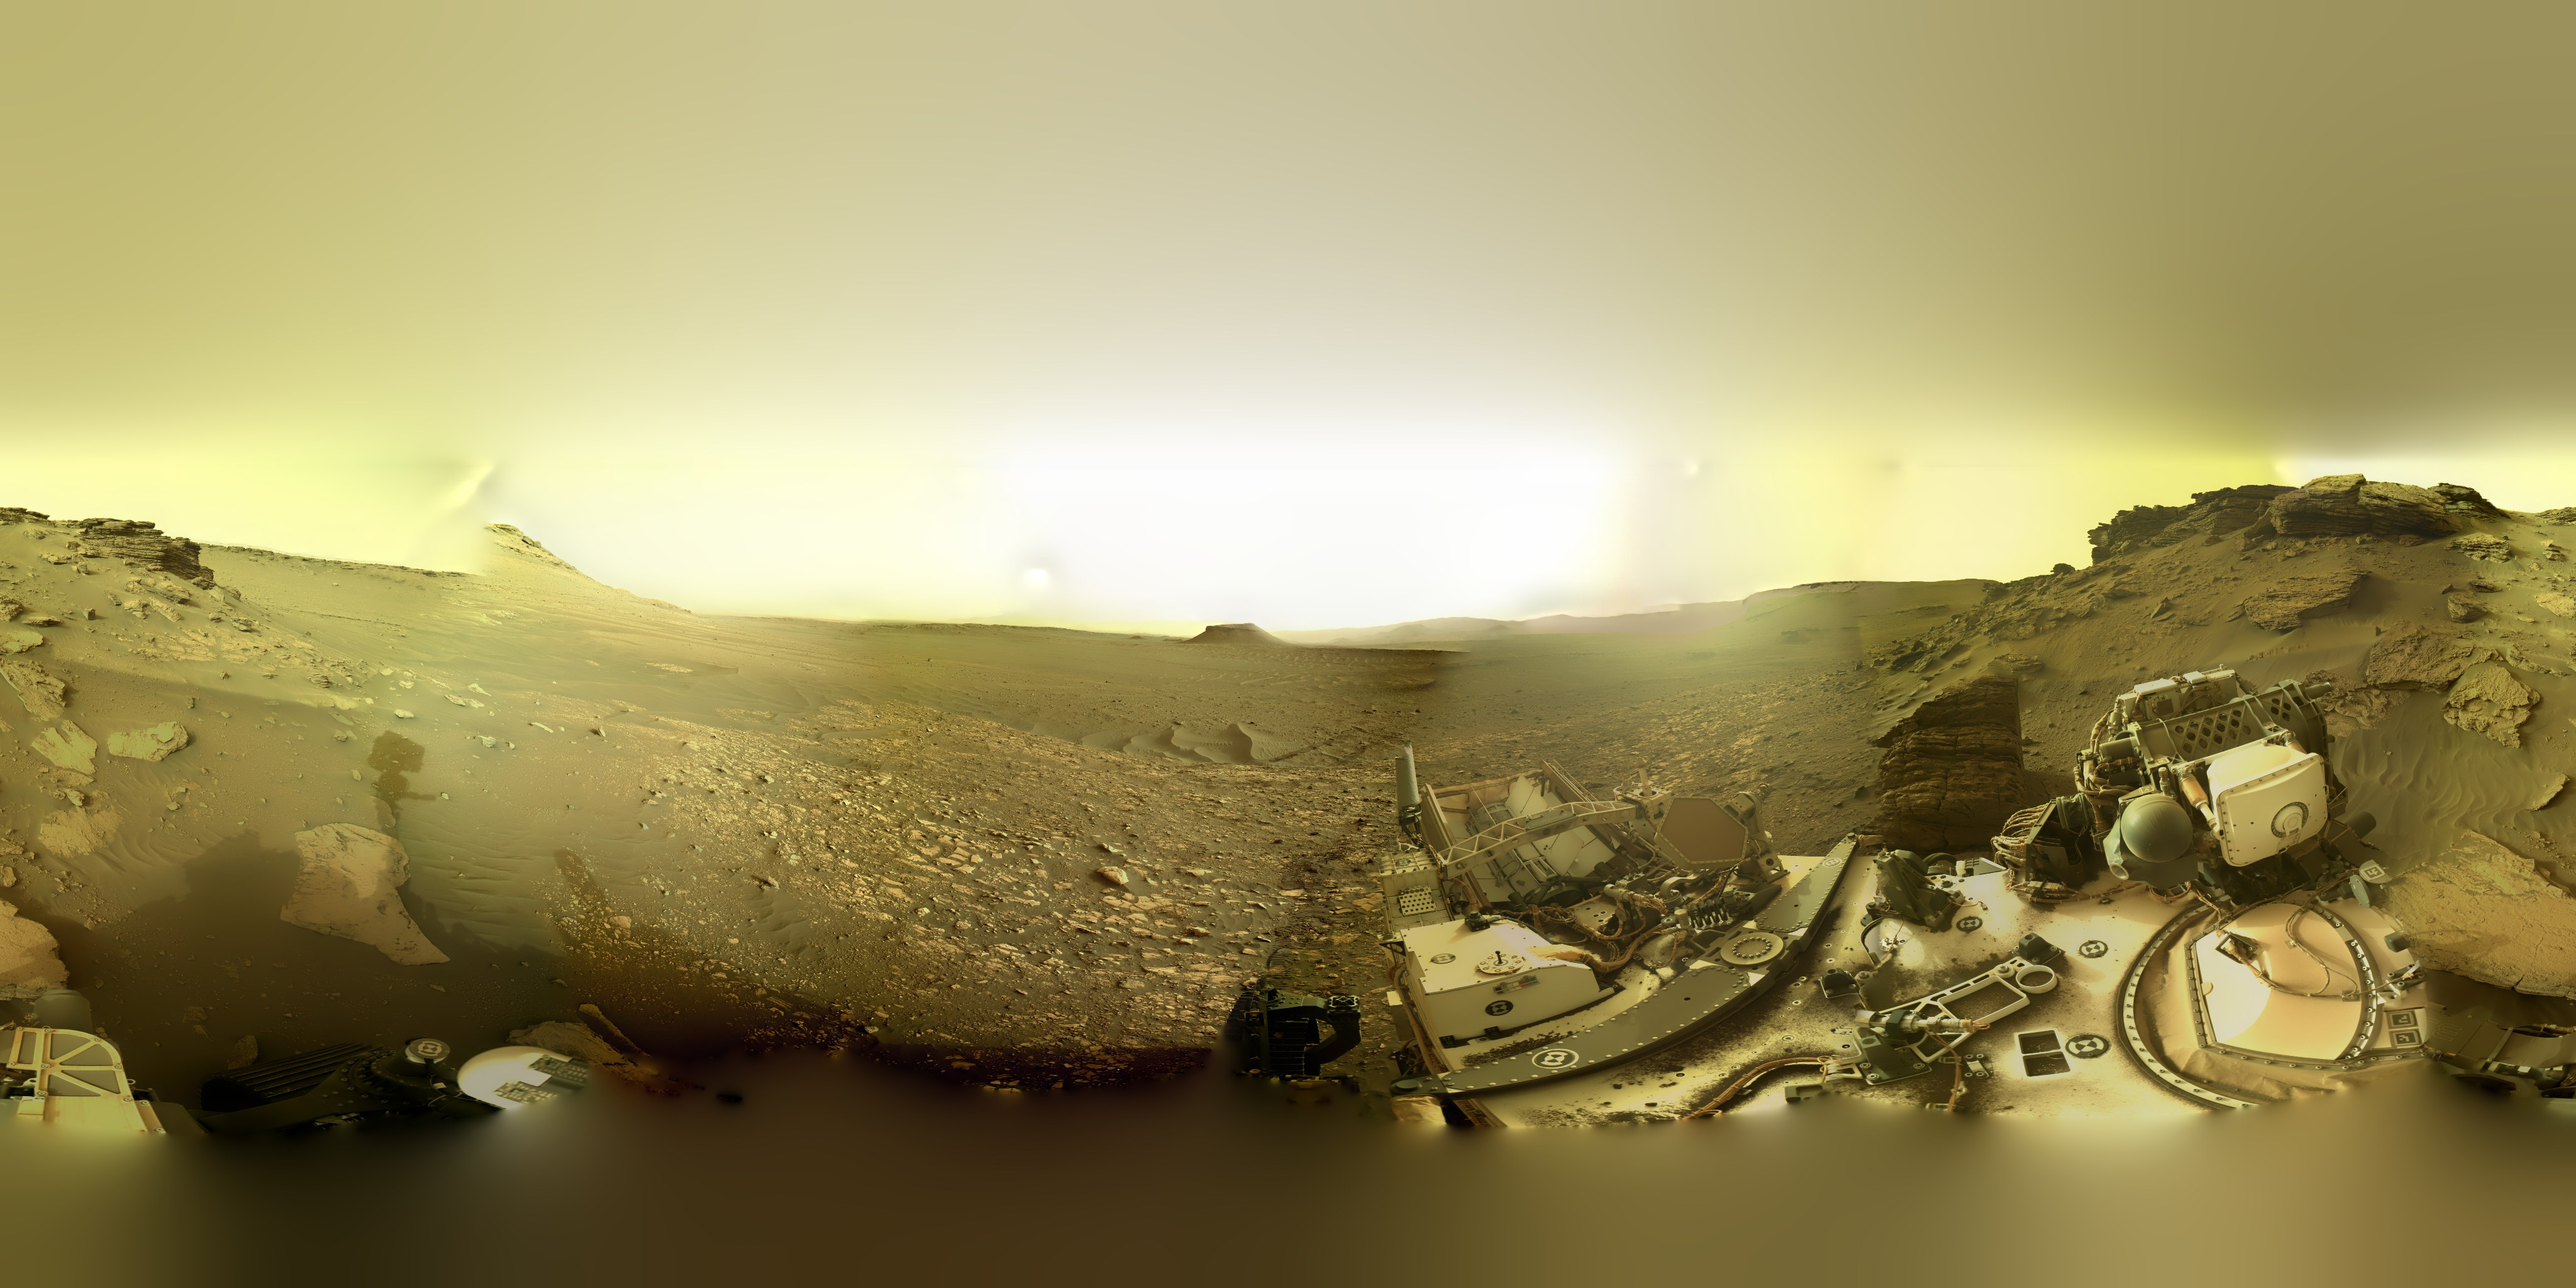
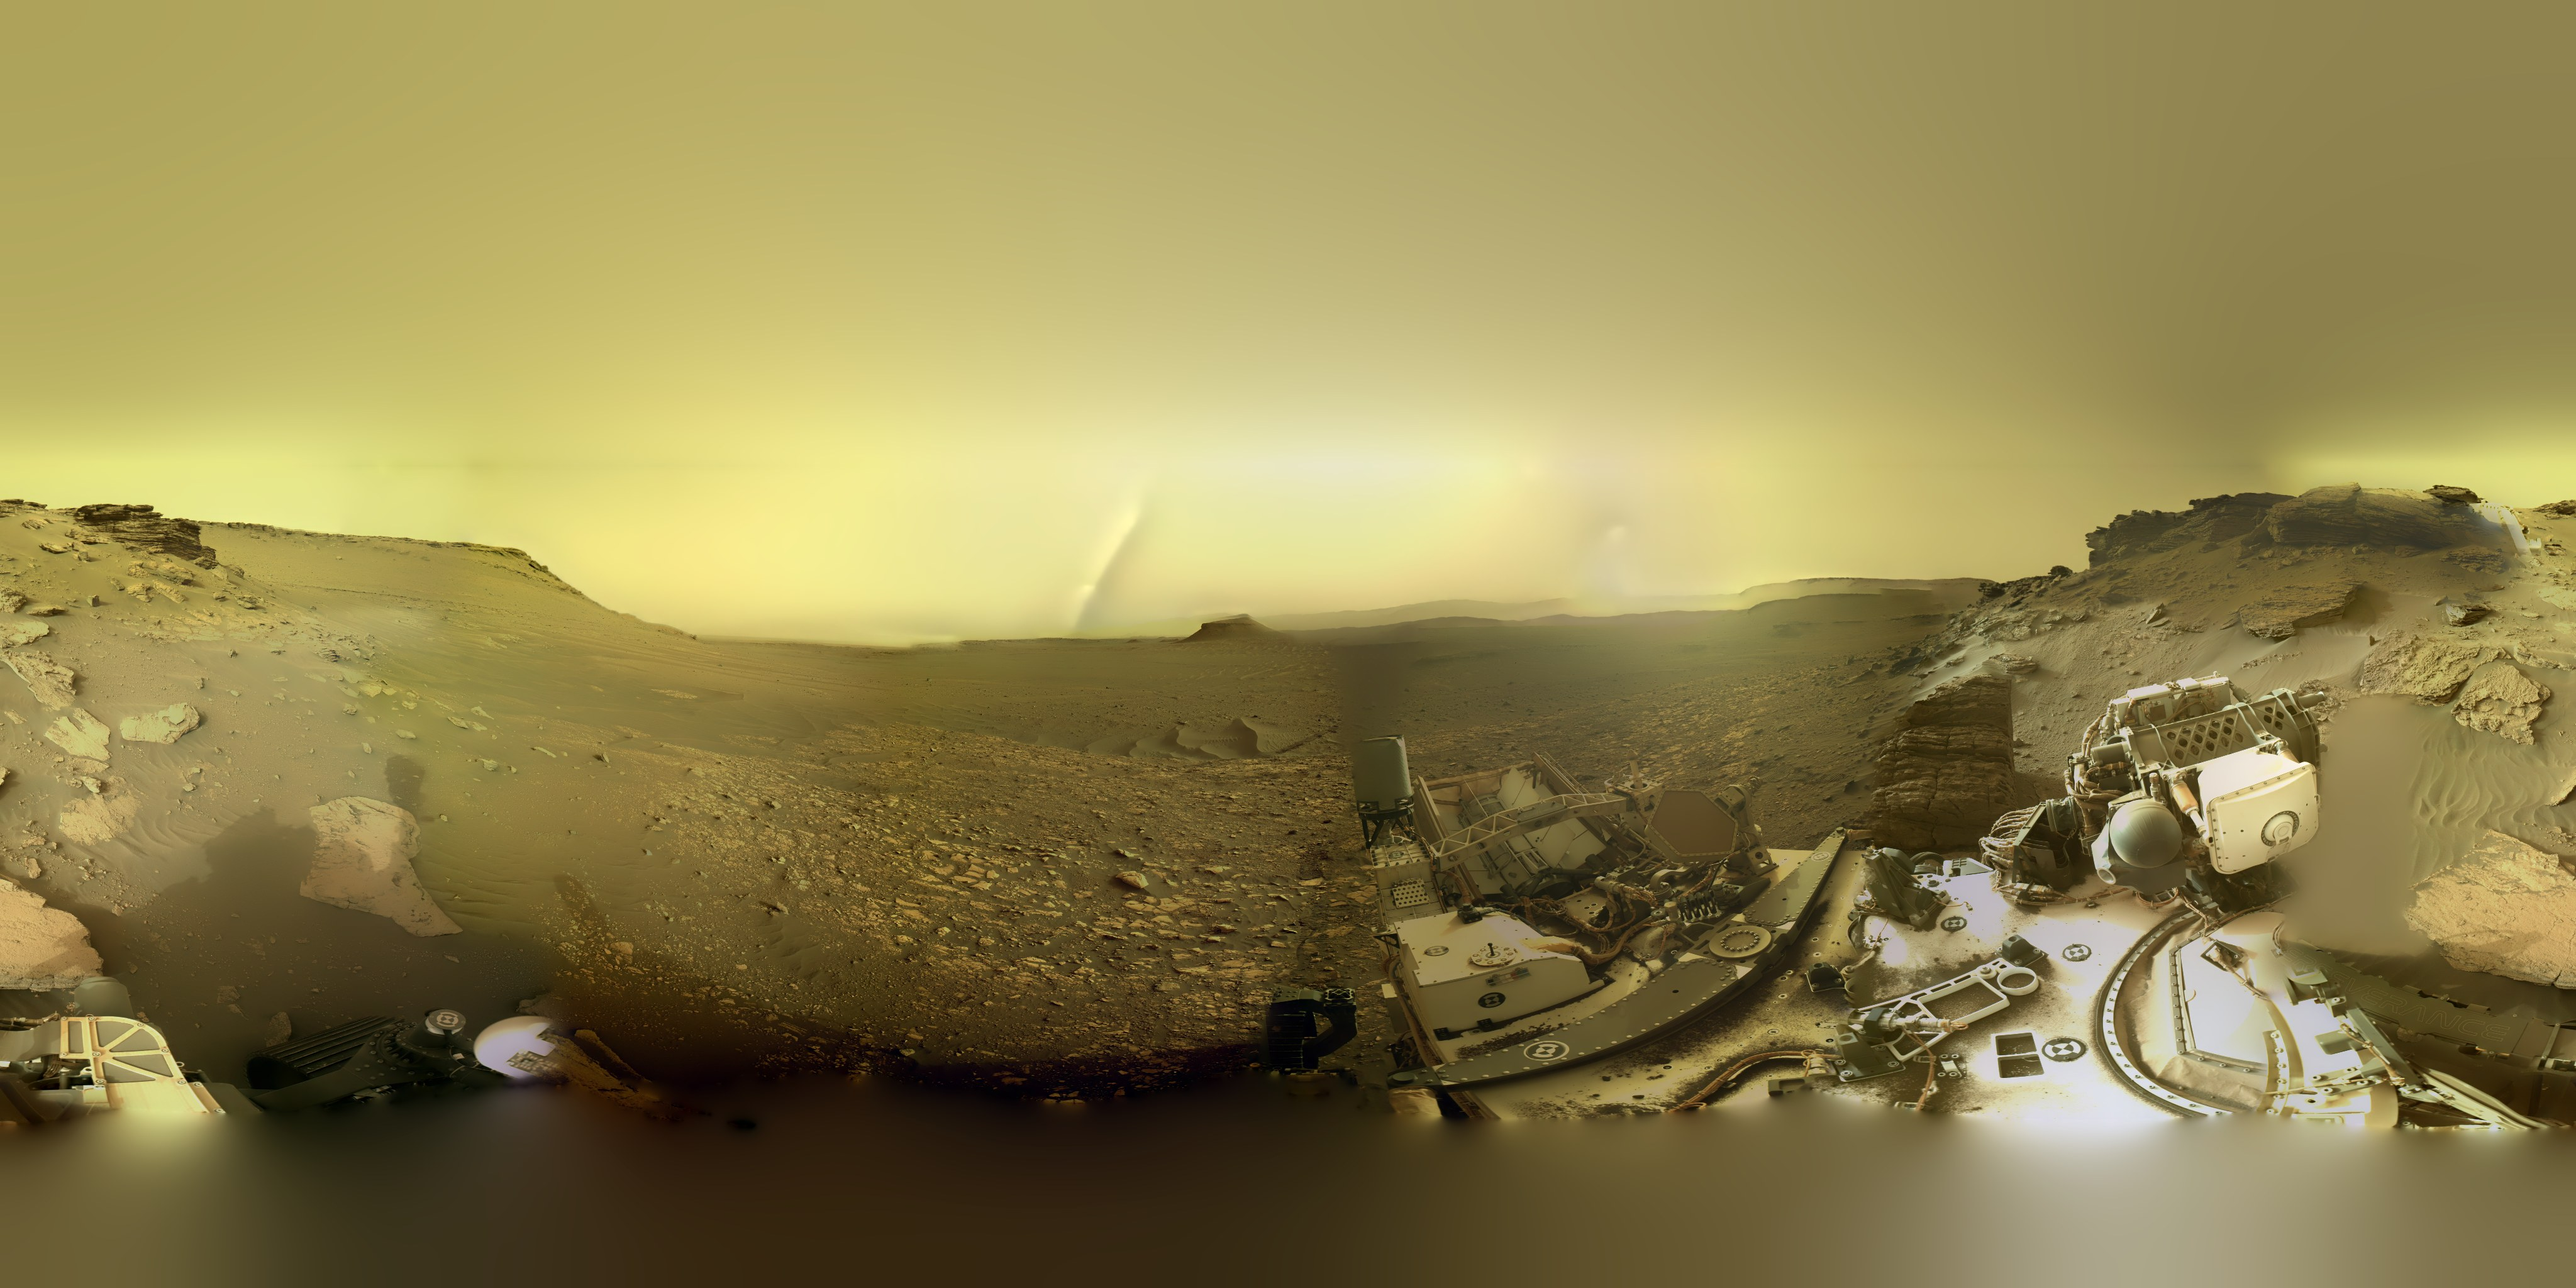
feat: laptop CDN for panoramas; rebuild demo stops with streaming stitcher
- prestitched-client: try VITE_PANO_CDN (laptop tunnel) first for index
  and JPEG files, fall back to Vercel-committed demo stops when offline
- scripts/start-pano-cdn.sh: one-command server + Cloudflare Tunnel
- .env.example: documents VITE_PANO_CDN and VITE_CESIUM_TOKEN
- Rebuild Hazeltop (26_1004) with streaming stitcher: 110 frames vs 47,
  sub-0.2° alignment; add per-stop provenance JSON files
- prestitched.ts: slim PrestitchedPano type (frameCount, link, provenance)
- streetview-viewer: show frame count and link credit from pre-stitched data

diff --git a/web/src/map/prestitched-client.ts b/web/src/map/prestitched-client.ts
@@ -3,6 +3,10 @@ import { type PrestitchedIndex, type PrestitchedPano, prestitchedFor } from '../
 import type { Stop } from '../core/streetview'
 import type { Rover } from './raw-images'
 
+// VITE_PANO_CDN: laptop CDN URL (e.g. https://xyz.trycloudflare.com). Falls back to Vercel-hosted
+// demo stops when unset or unreachable.
+const CDN = (import.meta.env.VITE_PANO_CDN as string | undefined)?.replace(/\/$/, '')
+
 const indexes = new Map<Rover, Promise<PrestitchedIndex | null>>()
 
 export type Prestitched = {
@@ -12,6 +16,14 @@ export type Prestitched = {
   height: number
 }
 
+async function fetchFirst(...urls: string[]): Promise<Response | null> {
+  for (const url of urls) {
+    const r = await fetch(url).catch(() => null)
+    if (r?.ok) return r
+  }
+  return null
+}
+
 /**
  * The stop's pre-stitched panorama, or null when the pipeline did not stitch it (Street View then
  * stitches live). Throws if the index lists a panorama that will not load.
@@ -19,15 +31,22 @@ export type Prestitched = {
 export async function prestitched(rover: Rover, stop: Stop): Promise<Prestitched | null> {
   let index = indexes.get(rover)
   if (!index) {
-    index = fetch(`data/pano/${rover}/index.json`)
-      .then((r) => (r.ok ? (r.json() as Promise<PrestitchedIndex>) : null))
-      .catch(() => null) // no pre-stitched panoramas built: the live stitcher covers every stop
+    // CDN has all stitched stops; Vercel has only the committed demo set — try CDN first
+    const urls = CDN
+      ? [`${CDN}/${rover}/index.json`, `data/pano/${rover}/index.json`]
+      : [`data/pano/${rover}/index.json`]
+    index = fetchFirst(...urls)
+      .then((r) => (r ? (r.json() as Promise<PrestitchedIndex>) : null))
+      .catch(() => null)
     indexes.set(rover, index)
   }
   const pano = prestitchedFor(await index, stop)
   if (!pano) return null
-  const response = await fetch(`data/pano/${rover}/${pano.file}`)
-  if (!response.ok) throw new Error(`pre-stitched panorama ${pano.file}: HTTP ${response.status}`)
+  const urls = CDN
+    ? [`${CDN}/${rover}/${pano.file}`, `data/pano/${rover}/${pano.file}`]
+    : [`data/pano/${rover}/${pano.file}`]
+  const response = await fetchFirst(...urls)
+  if (!response) throw new Error(`pre-stitched panorama ${pano.file}: not found on CDN or Vercel`)
   const bitmap = await createImageBitmap(await response.blob())
   const canvas = new OffscreenCanvas(bitmap.width, bitmap.height)
   const ctx = canvas.getContext('2d')

diff --git a/web/src/core/prestitched.ts b/web/src/core/prestitched.ts
@@ -1,6 +1,6 @@
 /**
  * Panoramas stitched ahead of time by the pipeline (pipeline/src/marsmap/streetview.py): aligned
- * by JPL's camera models and SIFT bundle adjustment, and available offline.
+ * by JPL's camera models and SIFT bundle adjustment, with every usable frame at the stop.
  */
 import type { Stop } from './streetview'
 
@@ -10,7 +10,9 @@ export type PrestitchedPano = {
   sol: number
   coveredFraction: number
   alignment: { pairs: number; matches: number; rmsBeforeDeg: number; rmsAfterDeg: number }
-  frames: Array<{ id: string; sol: number; link: string }>
+  frameCount: number
+  link: string // NASA's page for one of the source frames
+  provenance: string // per-stop file listing every source frame (id, sol, NASA link)
 }
 
 /** index.json: "site_drive" -> panorama. */

diff --git a/web/src/ui/streetview-viewer.ts b/web/src/ui/streetview-viewer.ts
@@ -402,12 +402,12 @@ export function openStreetView(
     hasImage = true
     canvas.hidden = false
     detail.textContent +=
-      ` · 360° panorama of ${pano.frames.length} Navcam frames, sol ${pano.sol}, ` +
+      ` · 360° panorama of ${pano.frameCount} Navcam frames, sol ${pano.sol}, ` +
       `stitched with JPL camera models (aligned to ${pano.alignment.rmsAfterDeg}°)`
     sphere.replaceChildren(...walkArrows())
     state.yaw = stop.yawDeg ?? 0 // open looking where the rover faces
     state.pitch = 0
-    credit.href = pano.frames[0]?.link ?? credit.href
+    credit.href = pano.link || credit.href
     status.hidden = true
     layout()
     // Terrain labels still come from the live frame list, when NASA answers.

diff --git a/web/src/core/prestitched.test.ts b/web/src/core/prestitched.test.ts
@@ -8,7 +8,9 @@ const index: PrestitchedIndex = {
     sol: 14,
     coveredFraction: 0.43,
     alignment: { pairs: 3, matches: 900, rmsBeforeDeg: 0.72, rmsAfterDeg: 0.07 },
-    frames: [{ id: 'NLF_0014_0668192052', sol: 14, link: 'https://mars.nasa.gov/x' }],
+    frameCount: 12,
+    link: 'https://mars.nasa.gov/x',
+    provenance: '3_110.json',
   },
 }
 
